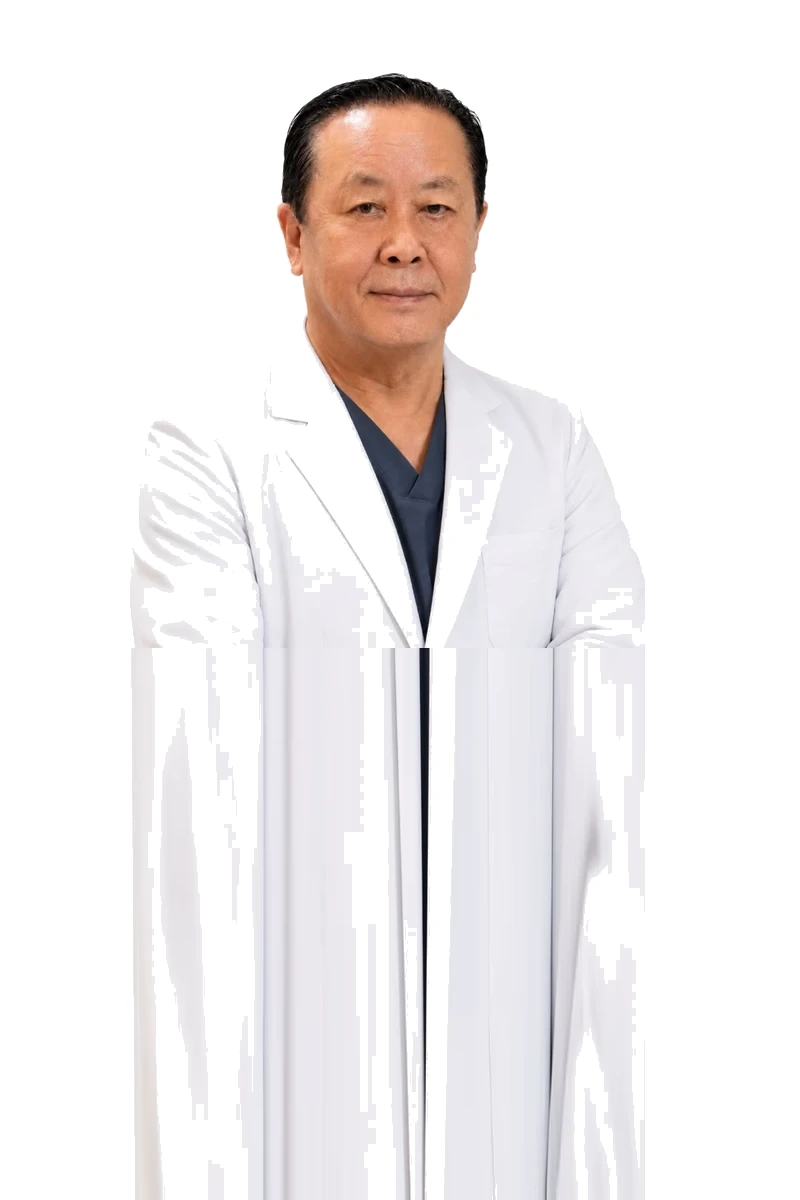
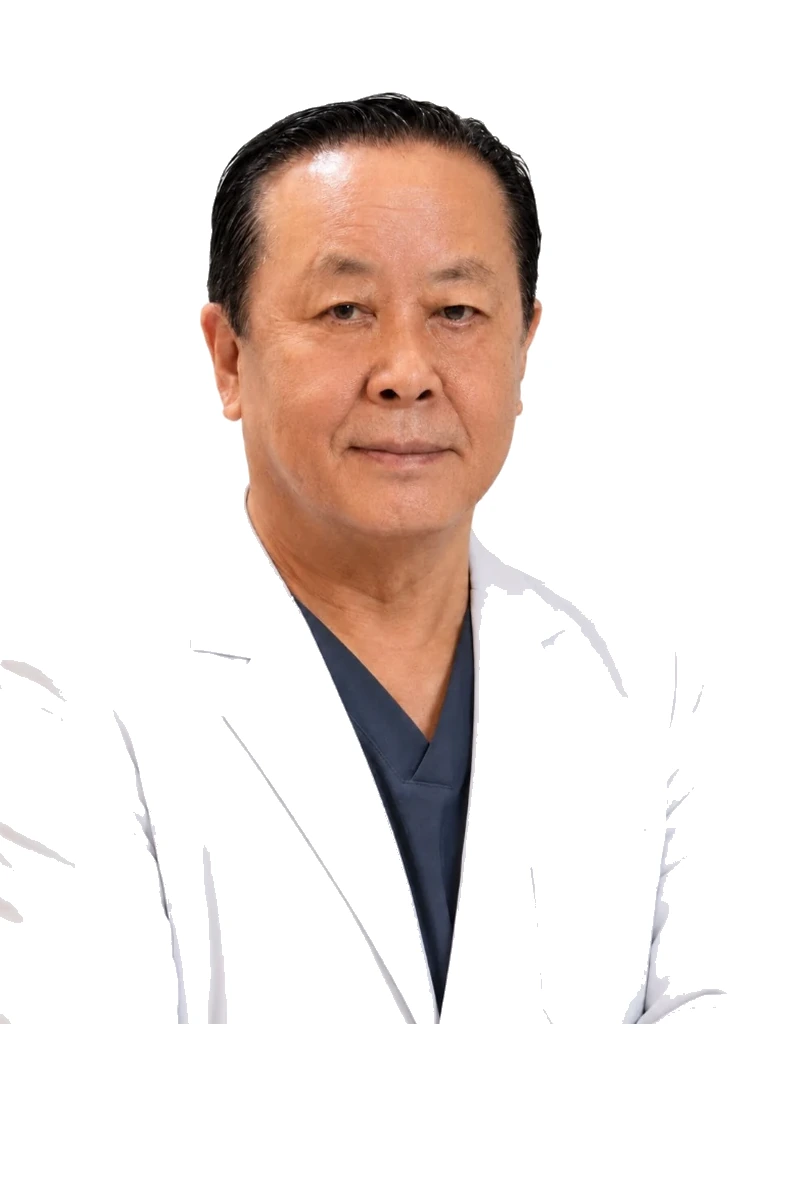
§재작업: ①02 CONTINUITY 사진 배경 유지+글씨만 제거(상단 간판 블러+하단 이름/자격 크림채움, 인물 무손상, LANCZOS 부드러운 업스케일 2400x1800) ②프로필 3장 배경 순백(#fff) 통일(flood-fill, 회색 스튜디오 배경 제거) ③권종진 가운 줄무늬 아티팩트 제거(깨끗한 원본서 재크롭, 얼굴 30%로 3인 균형) ④continuity img dims 2400x1800

diff --git a/src/pages/static-pages.ts b/src/pages/static-pages.ts
@@ -104,7 +104,7 @@ export function MissionPage() {
     <div class="container">
       <div class="grid-2 continuity-grid" style="align-items:center;gap:clamp(36px,5vw,72px)">
         <figure class="reveal about-figure">
-          <img src="${CLINIC.familyStory.photo}" alt="약수역 올케어치과의원 — 두 세대가 이어가는 진료 · 권종진 명예원장 · 권민수 대표원장" width="2000" height="1500" loading="lazy">
+          <img src="${CLINIC.familyStory.photo}" alt="약수역 올케어치과의원 — 두 세대가 이어가는 진료 · 권종진 명예원장 · 권민수 대표원장" width="2400" height="1800" loading="lazy">
           <figcaption>${CLINIC.familyStory.photoCaption}</figcaption>
         </figure>
         <div class="reveal reveal-d1">
